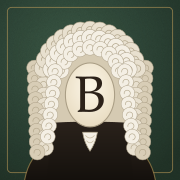
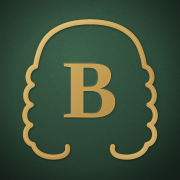
Neues App-Symbol: Messing-Perücke mit Serifen-B auf grünem Leinen
Claude-Session: https://claude.ai/code/session_01J4AUGSfx9T6hod4VextYfo

diff --git a/index.html b/index.html
@@ -8,8 +8,8 @@
 <title>Bach · Notenbücher</title>
 <meta name="apple-mobile-web-app-title" content="Bach">
 <meta name="apple-mobile-web-app-status-bar-style" content="black-translucent">
-<link rel="apple-touch-icon" href="icons/apple-touch-icon.png">
-<link rel="icon" type="image/png" href="icons/favicon-64.png">
+<link rel="apple-touch-icon" href="icons/apple-touch-icon.png?v=3">
+<link rel="icon" type="image/png" href="icons/favicon-64.png?v=3">
 <link rel="manifest" href="manifest.webmanifest">
 <link rel="preconnect" href="https://fonts.googleapis.com">
 <link rel="preconnect" href="https://fonts.gstatic.com" crossorigin>

diff --git a/src/template.html b/src/template.html
@@ -8,8 +8,8 @@
 <title>Bach · Notenbücher</title>
 <meta name="apple-mobile-web-app-title" content="Bach">
 <meta name="apple-mobile-web-app-status-bar-style" content="black-translucent">
-<link rel="apple-touch-icon" href="icons/apple-touch-icon.png">
-<link rel="icon" type="image/png" href="icons/favicon-64.png">
+<link rel="apple-touch-icon" href="icons/apple-touch-icon.png?v=3">
+<link rel="icon" type="image/png" href="icons/favicon-64.png?v=3">
 <link rel="manifest" href="manifest.webmanifest">
 <link rel="preconnect" href="https://fonts.googleapis.com">
 <link rel="preconnect" href="https://fonts.gstatic.com" crossorigin>
